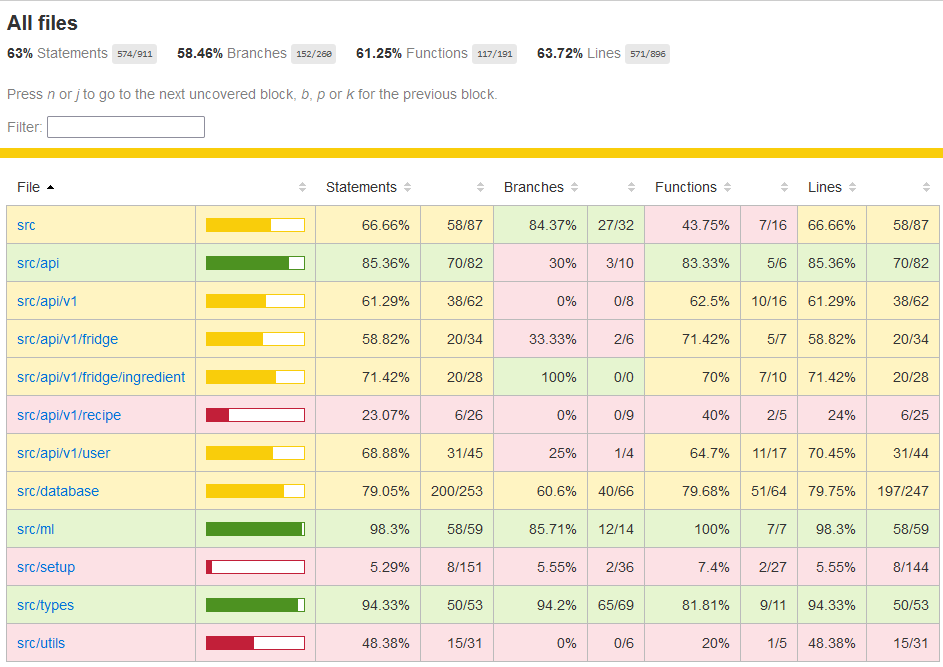
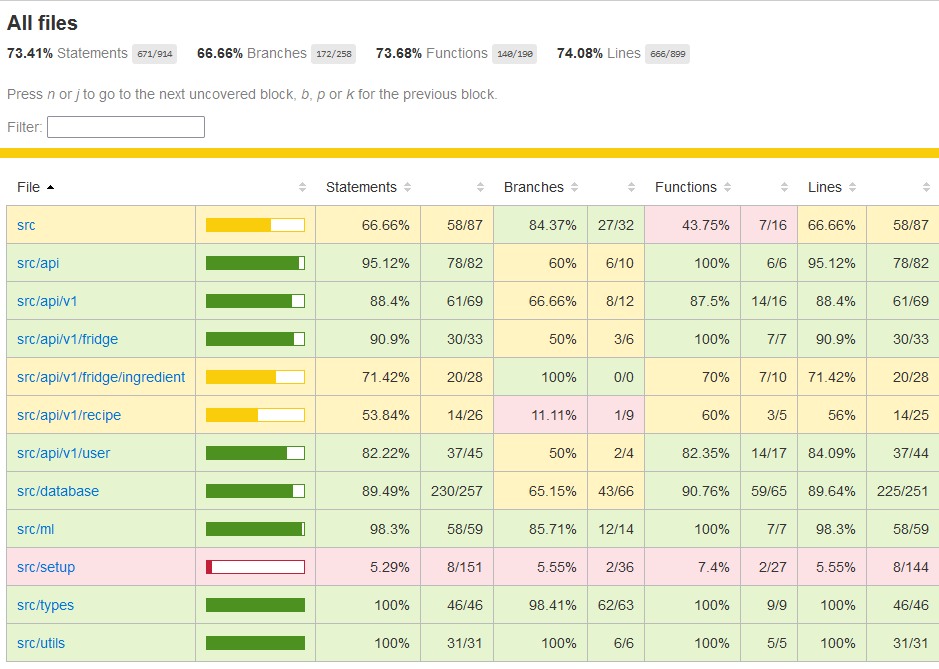
Update coverage report

diff --git a/report/sections/practical_work.tex b/report/sections/practical_work.tex
@@ -234,6 +234,11 @@ components such as API endpoints. These test cases will be executed on every pus
 with an alert being sent should any of them fail.
 \todo{Test plan}
 
+Due to the analytical nature of the project, user testing was not considered to be necessary. Instead,
+the focus was on ensuring that the system was reliable, and the results were as expected. This was done
+using automated unit tests for objective areas, i.e., \enquote*{does it work?}, and manual testing
+for subjective areas such as the quality of the recipe suggestions.
+
 \subsection{Unit Testing}
 The backend of the application is tested using the Mocha testing framework,~\cite{noauthor_mocha_nodate} with Supertest~\cite{noauthor_ladjssupertest_2024}
 used to simulate API calls. Finally, coverage reports are generated with Istanbul.~\cite{noauthor_istanbul_nodate}

diff --git a/report/sections/figures.tex b/report/sections/figures.tex
@@ -81,8 +81,7 @@ mocha --reporter dot --require ts-node/register src/tests/**/*.ts
 
 \begin{figure}
   \centering
-  \caption{\label{fig:coverage_report}A coverage report showing which lines were and were not executed during test cases.}
-  \todo{Update once coverage is higher}
+  \caption{\label{fig:coverage_report}A coverage report showing which lines were and were not executed during test suite.}
   \includegraphics[width=0.9\textwidth]{figures/coverage_report.png}
 \end{figure}
 
